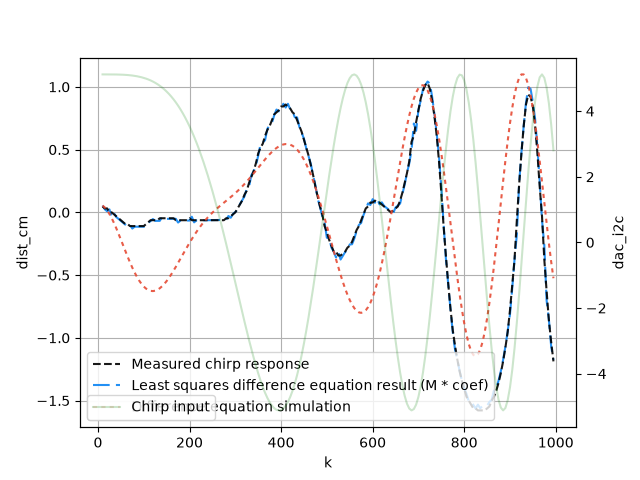
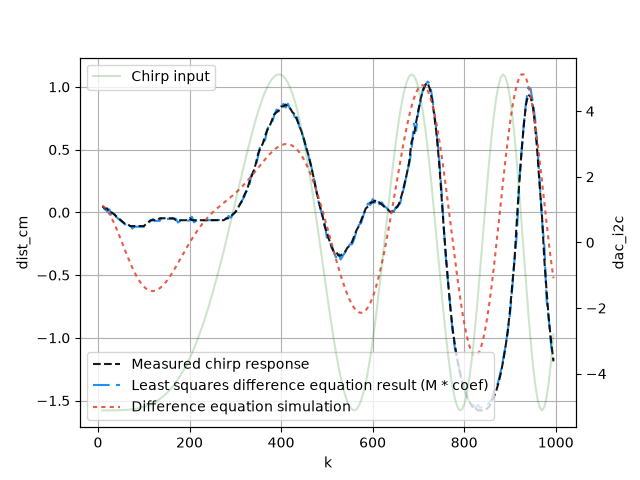
invert u to avoid non minimum phase system

diff --git a/hw11_solution.m b/hw11_solution.m
@@ -1,0 +1,48 @@
+p=0.5;
+tfinal=1;
+T = 0.025;
+
+b2 = 0;
+b1 = 0.002296;
+b0 = 0.002288;
+a1= -1.952;
+a0 = 0.9902;
+
+
+%custom
+
+a1 = -1.92894;
+a0 = 0.946607;
+b1 = 0.00998879;
+b0 = -0.00861729;
+
+KF = ((1-p)^2)/0.00458;
+fb2 = KF;
+fb1 = -1.952*KF;
+fb0= 0.9902*KF;
+fa1 = -2*p;
+fa0 = p^2;
+
+tvec=[-2*T:T:tfinal];
+N=length(tvec);
+r=ones(1,N);
+r(1)=0;
+r(2)=0;
+u=zeros(1,N);
+y=zeros(1,N);
+yunc=zeros(1,N);
+
+for k=1:N-2
+    yunc(k+2) = -a1*yunc(k+1)-a0*yunc(k)+b2*r(k+2)+b1*r(k+1)+b0*r(k);
+    u(k+2) = -fa1*u(k+1)-fa0*u(k) + fb2*r(k+2) + fb1*r(k+1)+fb0*r(k);
+    y(k+2) = -a1*y(k+1)-a0*y(k)+b2*u(k+2)+b1*u(k+1)+b0*u(k);
+end
+
+figure(1)
+stairs(tvec,yunc,'r')
+hold on
+stairs(tvec,y,'k')
+hold off
+
+figure(2)
+plot(tvec,u)

diff --git a/README.md b/README.md
@@ -6,14 +6,24 @@ Fits a difference equation to CSV data using least squares.
 
 ```powershell
 .venv\Scripts\Activate.ps1
-python model_leastsquares.py --file data/2026-10-07_model_100Hz.csv
+python model_leastsquares.py --file data/2026-10-07_model_100Hz.csv --order 2 --decimate 5 --u-scale -293 --y-offset 10.25 --end 1000
 ```
 
-Truncate data with `--start`/`--end` (row indices), save the fit to `model/<date>_model_order<n>.csv` with `--save`, and simulate a saved model on data with `--model`:
+![](./model/2026-11-03_model_order2.png)
 
-```powershell
-python model_leastsquares.py --file data/2026-10-07_model_100Hz.csv --start 10 --end 500 --save
-python model_leastsquares.py --file data/2026-10-07_model_1kHz.csv --model model/2026-10-23_model_order2.csv
+
+Output:
+```bash
+Coefficients:
+  a1 = -1.92894
+  a2 = 0.946607
+  b1 = 0.00998879
+  b2 = -0.00861729
+
+Poles:
+  p1 = 0.964469+0.128088j
+  p2 = 0.964469-0.128088j
+
+Zeros:
+  z1 = 0.862695
 ```
-
-Without `--file`, it uses today's `data/<date>_model.csv`. `--y-offset` (default 9.0) is subtracted from the data before fitting or simulating. `--decimate N` keeps every Nth row and `--u-scale` divides the input and `--y-scale` divides the output after the offset is removed; use the same values with `--model` as when the model was saved. Run `python model_leastsquares.py -h` for other options (`--order`, `--no-plot`, etc.).
